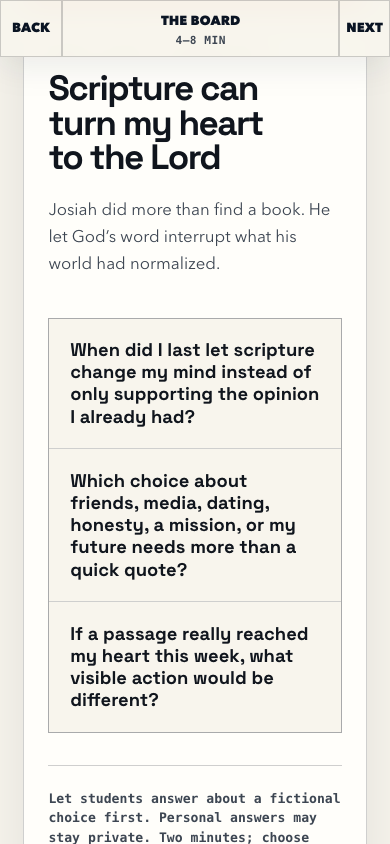
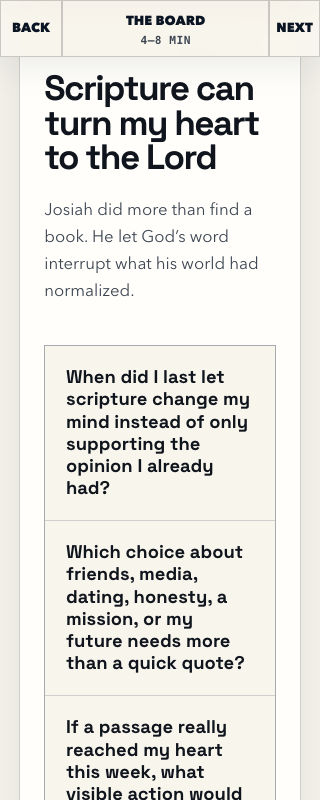
test: lock application privacy and pacing

diff --git a/trust-god-2kings-16-25/tests/e2e/lesson.spec.ts b/trust-god-2kings-16-25/tests/e2e/lesson.spec.ts
@@ -73,6 +73,17 @@ test('connects every principle to private application in a teenager’s world', 
   for (let index = 0; index < 3; index += 1) {
     await expect(labs.nth(index)).toContainText(/choose one/i);
   }
+
+  for (const [labName, privacyAndPacing] of [
+    ['faith-under-pressure', /Discuss the scenario, not someone’s private story\. Two minutes/i],
+    ['scripture-turns-hearts', /Personal answers may stay private\. Two minutes/i],
+    ['the-lords-hands', /No reporting afterward\. Two minutes/i],
+  ] as const) {
+    await expect(page.locator(`[data-application-lab="${labName}"]`)).toContainText(
+      privacyAndPacing,
+    );
+  }
+
   await expect(page.getByText('No public answer required', { exact: true })).toBeAttached();
 });
 

diff --git a/trust-god-2kings-16-25/dogfood-output/report.md b/trust-god-2kings-16-25/dogfood-output/report.md
@@ -31,7 +31,7 @@ No reproducible issue remained after the completed production-browser pass.
 - Mobile and keyboard: 320 px width with no horizontal overflow, a 320 px chapter rail, 44 px minimum visible button height, visible skip-link focus, keyboard-only view switching, decision selection, and reveal activation.
 - Resilience: production console and runtime error logs were empty, all local assets loaded, and the print rendering exposed all lesson material.
 - Live release: the permanent authenticated here.now copy repeated the core interaction and Reset checks, stayed within a 320 px viewport, loaded its social-preview asset, reported no browser errors, and returned zero serious or critical axe violations at the opening and final chapters.
-- Personal-application follow-up: inspected all 3 new reflection labs as rendered content, including the faith-under-pressure scenarios and Hezekiah pattern on a projector layout plus the scripture and trust labs on a phone layout. The 390 px viewport had no horizontal overflow, every lab was present, and the browser console and runtime error logs remained empty.
+- Personal-application follow-up: inspected all 3 new reflection labs as rendered content, including the faith-under-pressure scenarios and Hezekiah pattern on a projector layout plus the scripture and trust labs on a phone layout. The 320 px viewport had no horizontal overflow, every lab was present, and the browser console and runtime error logs remained empty.
 
 ## Evidence
 
